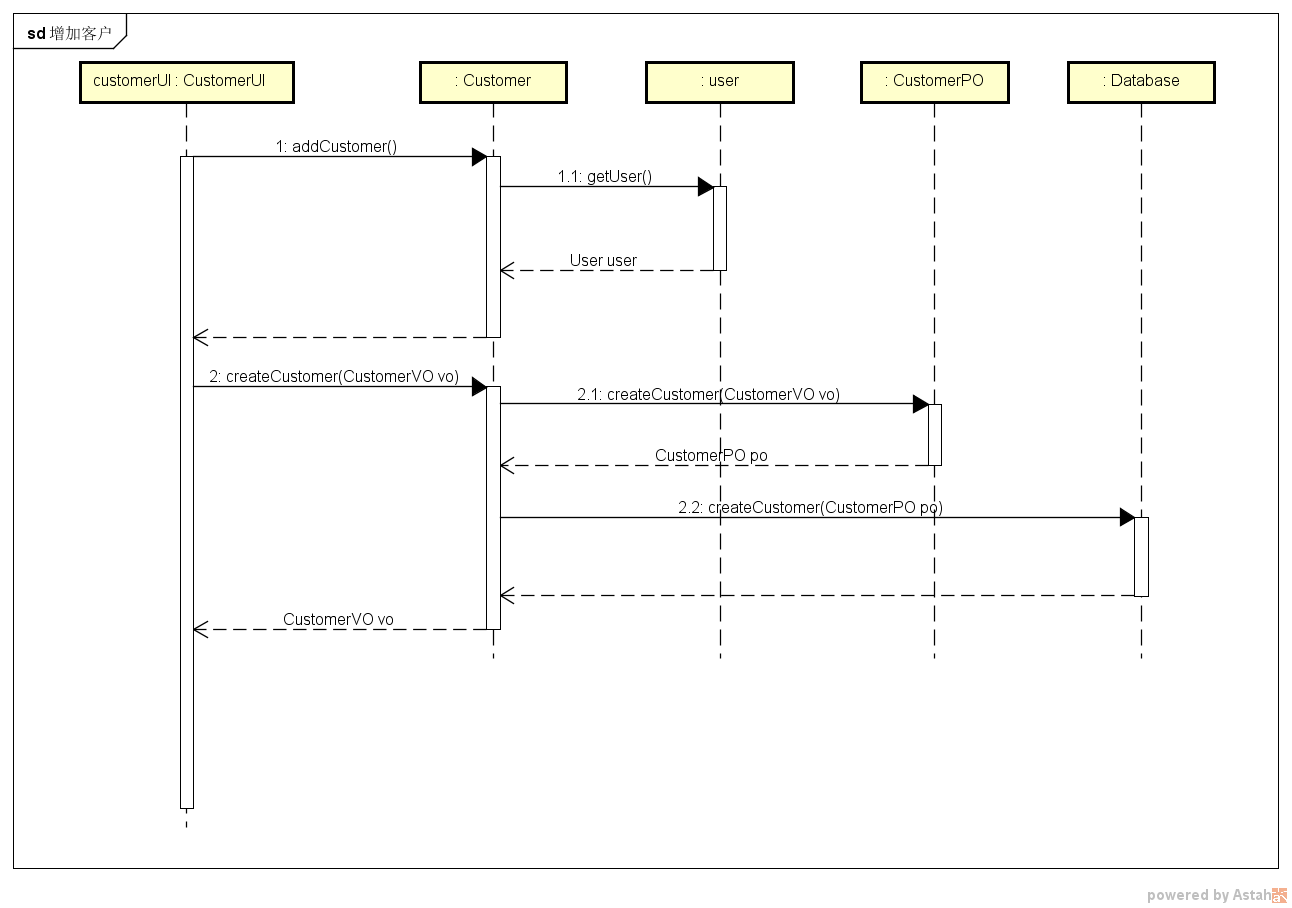
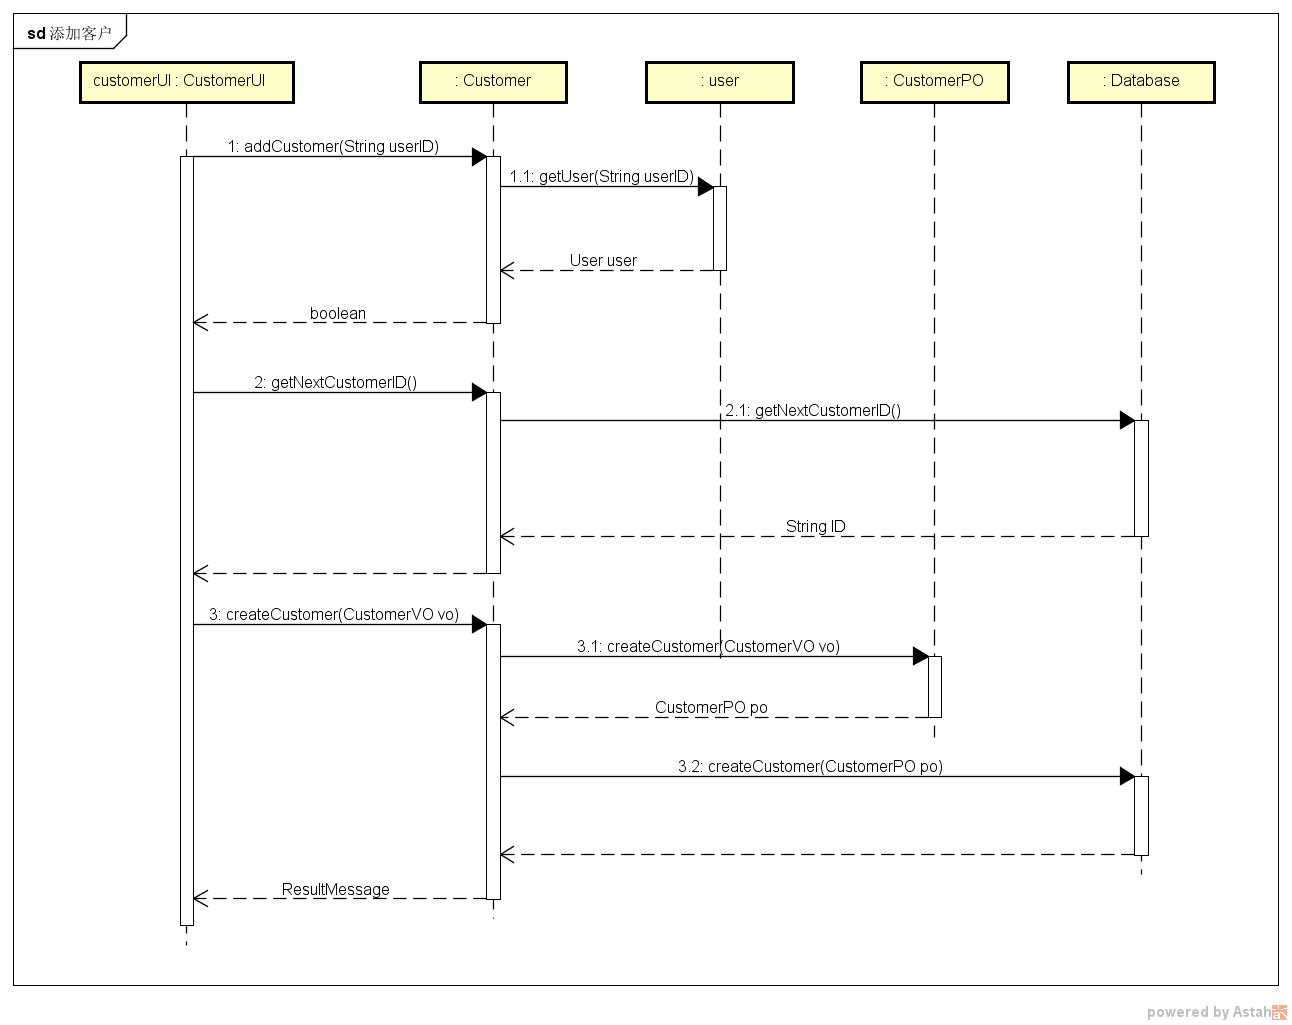
补充完成进货销售人员初步详细设计

diff --git a/document/详细设计/进货销售人员模块.md b/document/详细设计/进货销售人员模块.md
@@ -1,4 +1,4 @@
-#### Customercustomerbl模块
+####Customercustomerbl模块
 
 ##### 模块概述
 
@@ -12,7 +12,7 @@ customerbl模块的职责及接口参见软件体系结构描述文档。
 
 customerbl模块的设计如图所示。
 
-![customerBL](customerBL.png)
+![customerBL](/../Image/设计类图/customerBL.png)
 
 customerbl模块各个类的职责如下表。
 
@@ -25,21 +25,60 @@ customerbl模块各个类的职责如下表。
 
 CustomerController的接口规范
 
-| 名称                                 | 条目   | 详情   |
-| ---------------------------------- | ---- | ---- |
-|                                    | 语法   |      |
-| CustomerController.getCustomerList | 前置条件 |      |
-|                                    | 后置条件 |      |
-|                                    | 语法   |      |
-| CustomerController.addCustomer     | 前置条件 |      |
-|                                    | 后置条件 |      |
-|                                    | 语法   |      |
-| CustomerController.deleteCustomer  | 前置条件 |      |
-|                                    | 后置条件 |      |
-|                                    | 语法   |      |
-| CustomerController.modifyCustomer  | 前置条件 |      |
-|                                    | 后置条件 |      |
-|                                    | 语法   |      |
-| CustomerController.findCustomer    | 前置条件 |      |
-|                                    | 后置条件 |      |
+提供的服务
 
+| 名称                                   | 条目   | 详情                                       |
+| ------------------------------------ | ---- | ---------------------------------------- |
+|                                      | 语法   | `public ArrayList<CustomerVO> getCustomerList ()` |
+| CustomerController.getCustomerList   | 前置条件 | 已创建一个Customer领域对象                        |
+|                                      | 后置条件 | 调用Customer领域对象的`getCustomerList`方法       |
+|                                      | 语法   | `public boolean addCustomer(String userID)` |
+| CustomerController.addCustomer       | 前置条件 | 已创建一个Customer领域对象                        |
+|                                      | 后置条件 | 调用Customer领域对象的`addCustomer`方法           |
+|                                      | 语法   | `public ResultMessage createCustomer(CustomerVO)` |
+| CustomerController.createCustomer    | 前置条件 | 已创建一个Customer领域对象，已添加姓名、分类、级别等信息，输入符合输入规则 |
+|                                      | 后置条件 | 调用Customer领域对象的`createCustomer`方法        |
+|                                      | 语法   | `public ResultMessage modifyAccount(CustomerVO vo)` |
+| CustomerController.modifyCustomer    | 前置条件 | 已创建一个Customer领域对象，已输入新的信息且输入符合输入规则       |
+|                                      | 后置条件 | 调用Customer领域对象的`modifyCustomer`方法        |
+|                                      | 语法   | `public ArrayList<CustomerVO> findCustomer(String keyword)` |
+| CustomerController.findCustomer      | 前置条件 | 已创建一个Customer领域对象，已输入关键字且输入符合输入规则        |
+|                                      | 后置条件 | 调用Customer领域对象的`findCustomer`方法          |
+|                                      | 语法   | `public ResultMessage deleteCustomer(CustomerVO vo)` |
+| CustomerController.deleteCustomer    | 前置条件 | 已创建一个Customer领域对象                        |
+|                                      | 后置条件 | 调用Customer领域对象的`deleteCustomer`方法        |
+|                                      | 语法   | `public String getNextCustomerID()`      |
+| CustomerController.getNextCustomerID | 前置条件 | 已创建一个Customer领域对象                        |
+|                                      | 后置条件 | 调用Customer领域对象的`getNextCustomerID`方法     |
+
+需要的服务
+
+| 服务名                                    | 服务              |
+| -------------------------------------- | --------------- |
+| Customer.addCustomer(String userID)    | 得到用户的权限         |
+| Customer.getCustomerList()             | 得到客户列表          |
+| Customer.createCustomer(CustomerVO vo) | 加入一个客户对象        |
+| Customer.modifyCustomer(CustomerVO vo) | 修改一个客户对象        |
+| Customer.deleteCustomer(CustomerVO vo) | 删除一个客户对象        |
+| Customer.getNextCustomerID()           | 得到一个新的客户ID      |
+| Customer.findCustomer(String keyword)  | 根据关键字查找得到多个客户对象 |
+
+
+
+##### 业务逻辑层的动态模型
+
+下图为用户输入新客户的姓名、分类、级别等信息后，客户业务逻辑处理的相关对象之间的协作
+
+![添加客户](/../Image/顺序图/添加客户.png)
+
+下图为用户删除账户时账户业务逻辑处理的相关对象之间的协作
+
+![删除客户](/../Image/顺序图/删除客户.png)
+
+下图为用户查查找账户时账户业务逻辑处理的相关对象之间的协作
+
+![查找客户](/../Image/顺序图/查找客户.png)
+
+下图为用户修改账户时账户业务逻辑处理的相关对象之间的协作
+
+![修改客户](/../Image/顺序图/修改客户.png)
